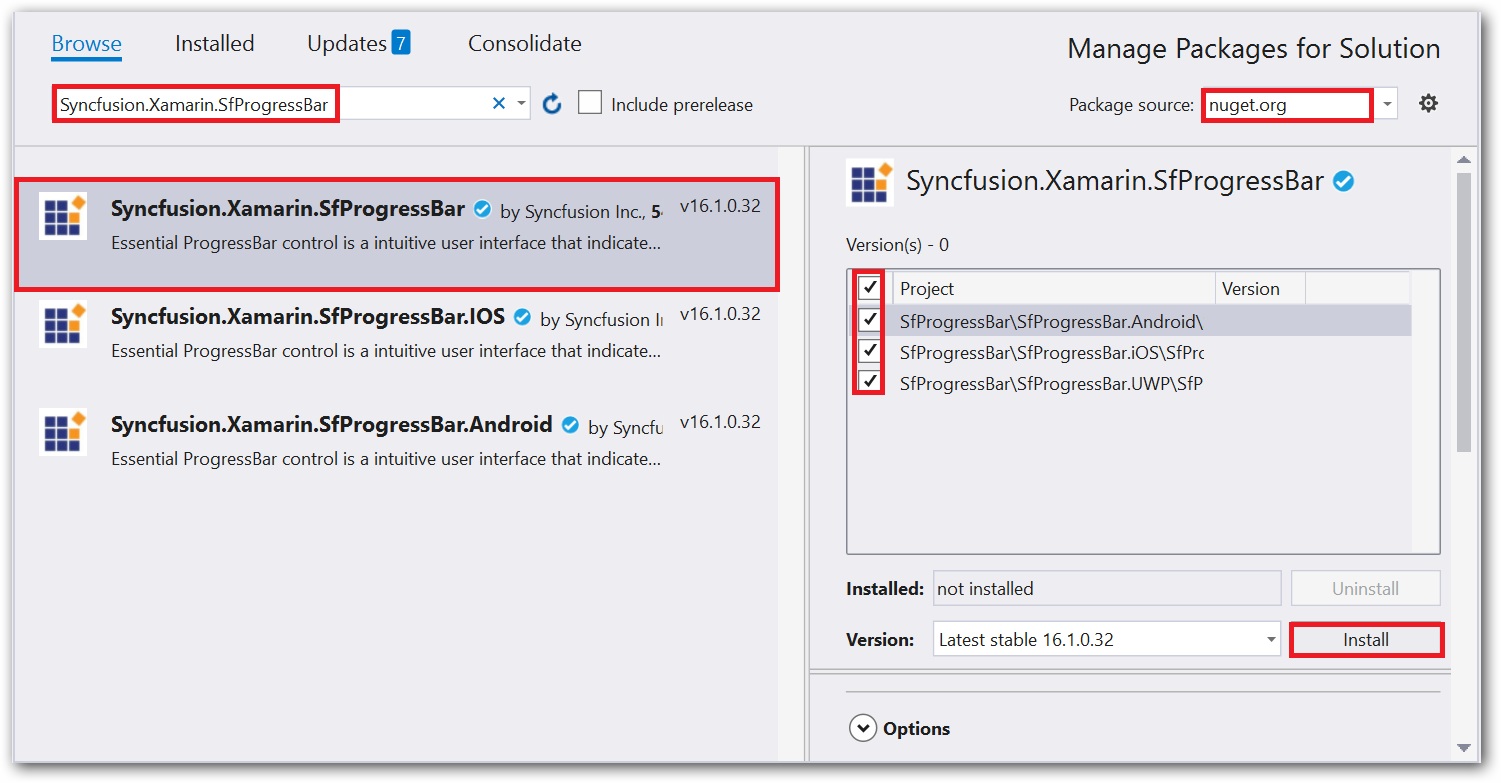
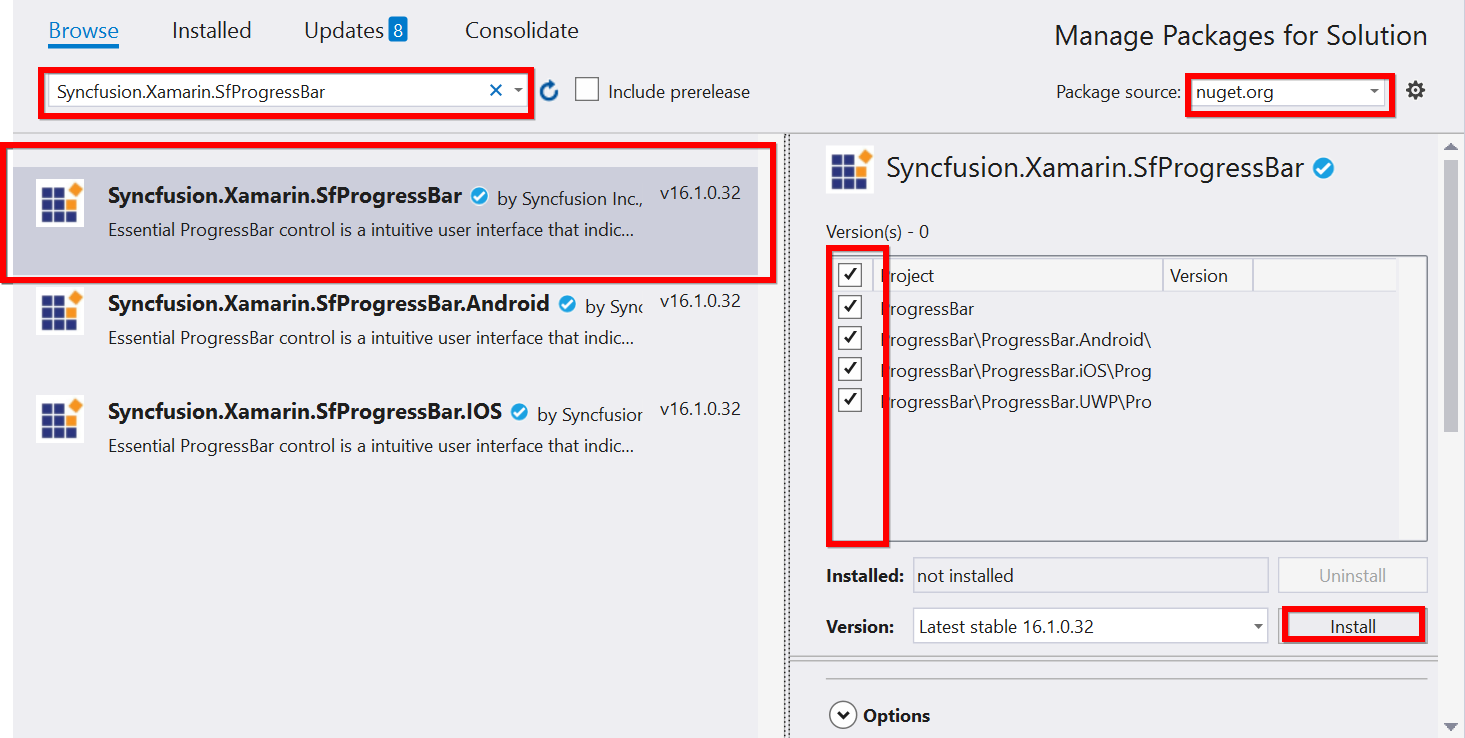
WPF-41988 - Modified the progress bar nuget image.

Changed region(s): [[0.0, 0.0, 1.0, 0.9973]]

diff --git a/Xamarin/ProgressBar/GettingStarted.md b/Xamarin/ProgressBar/GettingStarted.md
@@ -15,7 +15,7 @@ This section explains the steps required to work with progress bar in Xamarin.Fo
 
 Syncfusion Xamarin components are available in [nuget.org](https://www.nuget.org/). To add progress bar to your project, open the NuGet package manager in Visual Studio, and search for [Syncfusion.Xamarin.SfProgressBar](https://www.nuget.org/packages/Syncfusion.Xamarin.SfProgressBar/), and then install it.
 
-![](overview_images/nuget.jpeg)
+![](overview_images/nuget.png)
 
 To know more about obtaining our components, refer to these links: [Mac](https://help.syncfusion.com/xamarin/introduction/download-and-installation/mac#) and [Windows](https://help.syncfusion.com/xamarin/introduction/download-and-installation/windows#). Also, if you prefer to manually refer the assemblies instead of NuGet, refer to this [link](https://help.syncfusion.com/xamarin/introduction/control-dependencies#progress-bar) to know about the dependent assemblies for progress bar.
 
